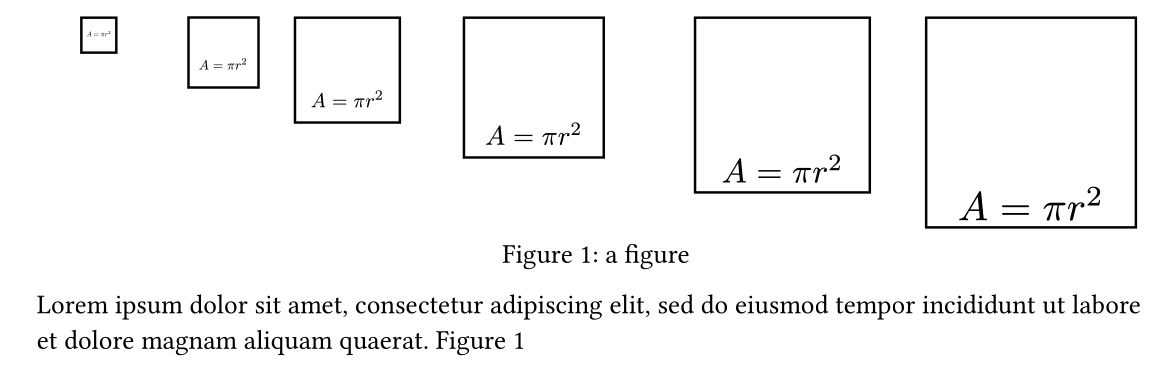
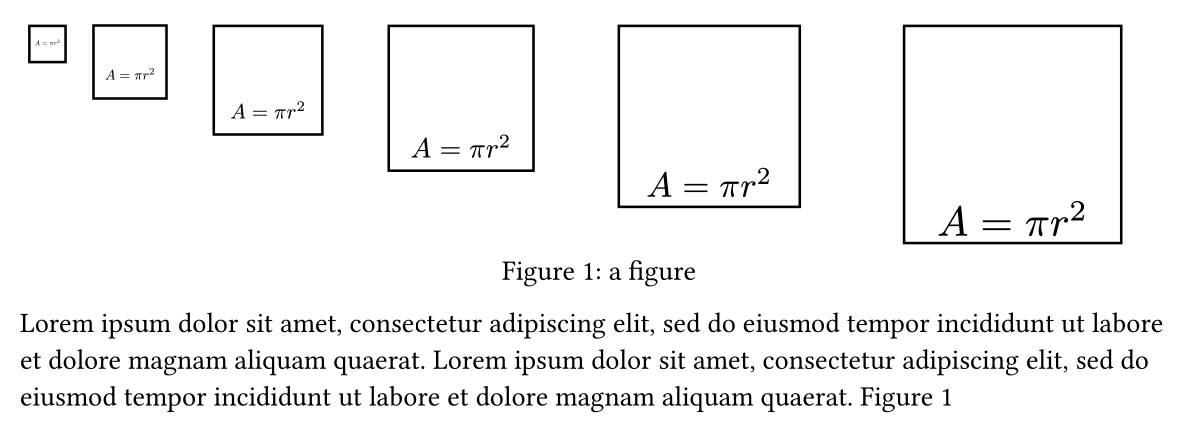
Update README.md and bump version

Changed region(s): [[0.0, 0.0296, 0.9846, 0.6226], [0.0, 0.593, 0.9846, 0.8598], [0.0, 0.8895, 0.8, 0.9488]]

diff --git a/README.md b/README.md
@@ -33,17 +33,17 @@ typst([t1,t2,t3])
 Elements like grid, table or page accept lists of typst arguments.
 
 ```julia
-block([
-grid([map(x -> text("field $(x)"), 1:3)...],
-    columns = [fr(1), fr(2), fr(5)],
-    row_gutter = 3mm,
-),
-line(length = 0.5),
-grid([map(x -> text("field $(x)"), 4:12)...],
-    columns = [fr(1), fr(2), fr(5)],
-    row_gutter = 3mm,
+block(
+    grid(map(x -> text("field $(x)"), 1:3),
+        columns = [fr(1), fr(2), fr(5)],
+        row_gutter = 3mm,
+    ),
+    line(length = 0.5),
+    grid(map(x -> text("field $(x)"), 4:12),
+        columns = [fr(1), fr(2), fr(5)],
+        row_gutter = 3mm,
+    )
 )
-])
 ```
 
 ![](docs/src/assets/example_2.png)
@@ -57,25 +57,26 @@ Floats are interpretted as percent when given as an named argument.
 ### set
 
 ```julia
-block([
+block(
     set(text, size = 10pt),
-    text("10pt text"),
-    text("10pt text"),
+    "10pt text",
+    "10pt text",
     set(text, size = 15pt, fill = cmyk(0.9,0.2,0.4,0.2)),
-    text("50pt text"),
+    "50pt text",
     literal("#overline[literal]"),
     set(text, size = 10pt),
-    text("colored text"),
-])
+    "colored text",
+)
 ```
 ![](docs/src/assets/example_3.png)
 
 Set syntax works pretty similar to typst itself.
 For arbitrary typst commands use the literal function.
+Strings in typst functions will be interpreted as text.
 
 ### figures
 ```julia
-page([
+page(
     figure(
         grid(map(x -> square(
             align(
@@ -84,7 +85,7 @@ page([
                 x = x/20, y = x/20), 
             :bottom), 
             size = x * mm), 5:5:30),
-        columns = [fr(1,3)...,fr(2,3)...],
+        columns = fr.(1:length(5:5:30)),
         ),
         label = :label1,
         caption = text("a figure")
@@ -92,7 +93,7 @@ page([
     lorem(20),
     lorem(20),
     ref(:label1)
-])
+)
 ```
 
 Figures can be referenced, using the label option with some symbol.
